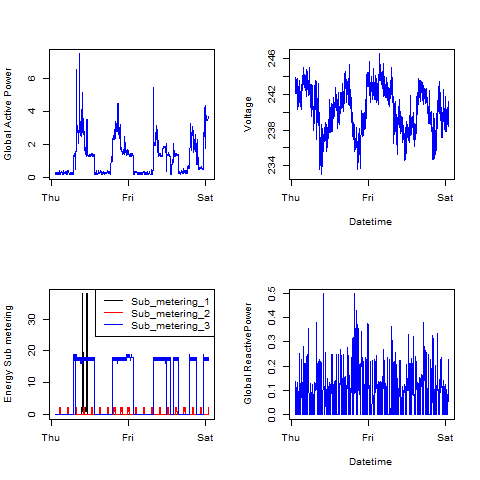
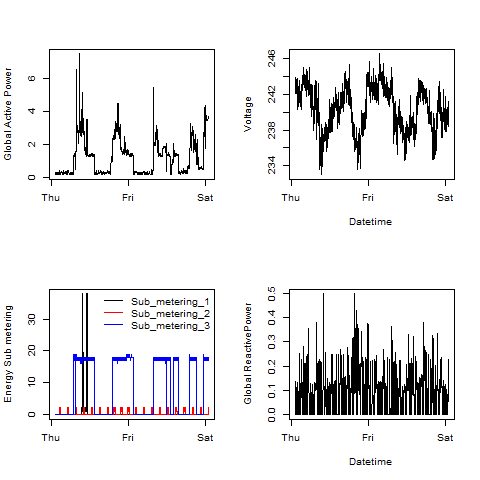
following peer review - grpah 3 remove legend frame - original graph line are black

diff --git a/README.md b/README.md
@@ -1,3 +1,48 @@
+# Coursera - Johns-Hopkins
+## Data Science track - #04 Exploratory Data Analysis
+
+web site : [Johns Hopkins University - Coursera](https://www.coursera.org/jhu)
+
+## Week 1: Programming Assignment
+
+This folder contains the 1st programming assignment project of the 4th course of the serie.
+<br/>
+
+### Description
+
+The goal of this assignment is to replicate 4 graphes using the BASE plot functions.
+
+The repo contains: 
+- the 4 plot**X**.R code
+- the 4 generated PNG files : plot**X**.png
+- the **read_csv_chunked.R** file: this file is test to try the loading the file "by chunk" (using the `readr` package)
+
+Here are the generated graphs:
+
+- **Plot 1**
+
+
+![plot1.png](plot1.png)
+
+
+- **Plot 2**
+
+![plot2.png](plot2.png) 
+
+
+- **Plot 3**
+
+![plot3.png](plot3.png) 
+
+
+- **Plot 4**
+
+![plot4.png](plot4.png) 
+
+
+---
+
+# Original readme file (containing the instructions)
 ## Introduction
 
 This assignment uses data from
